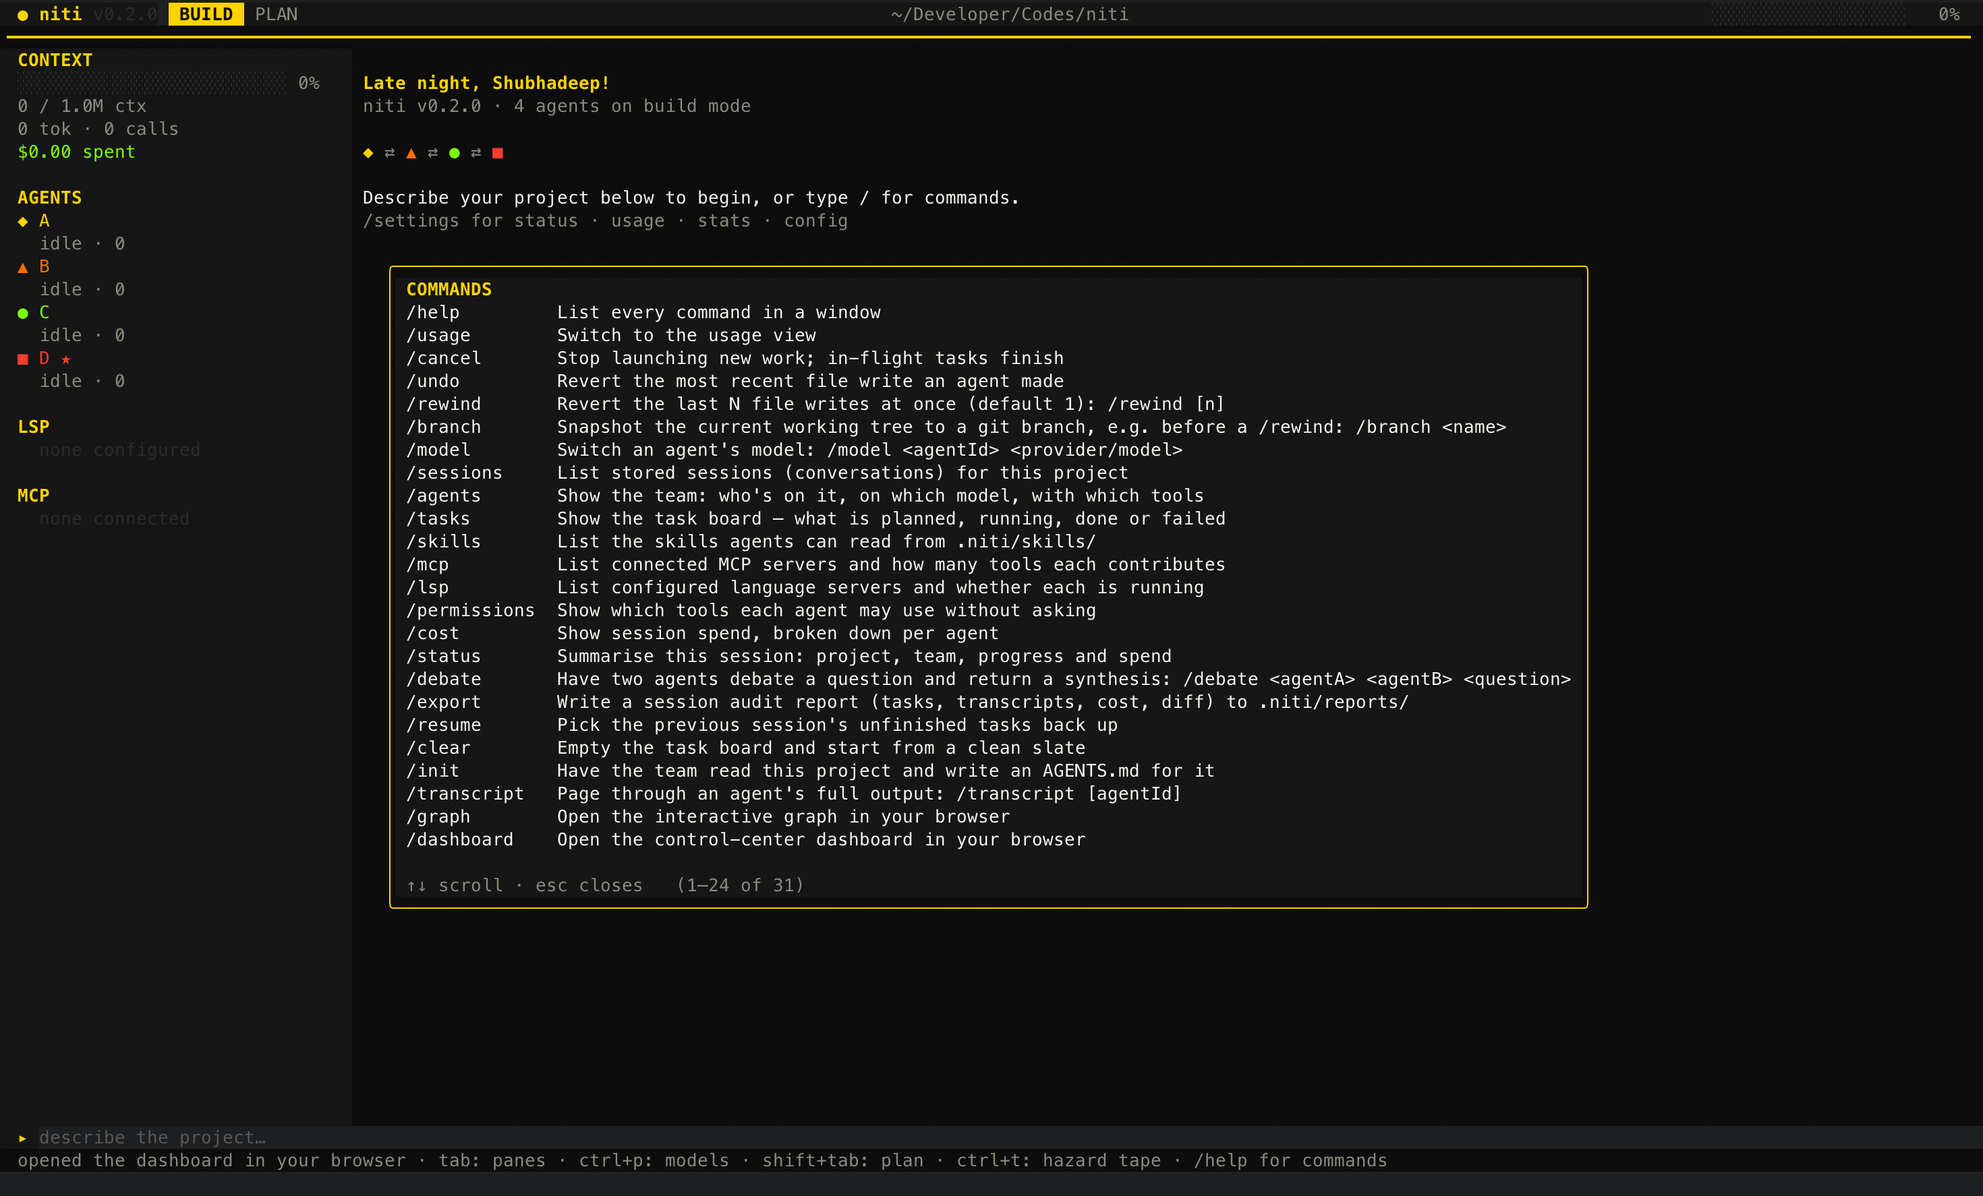
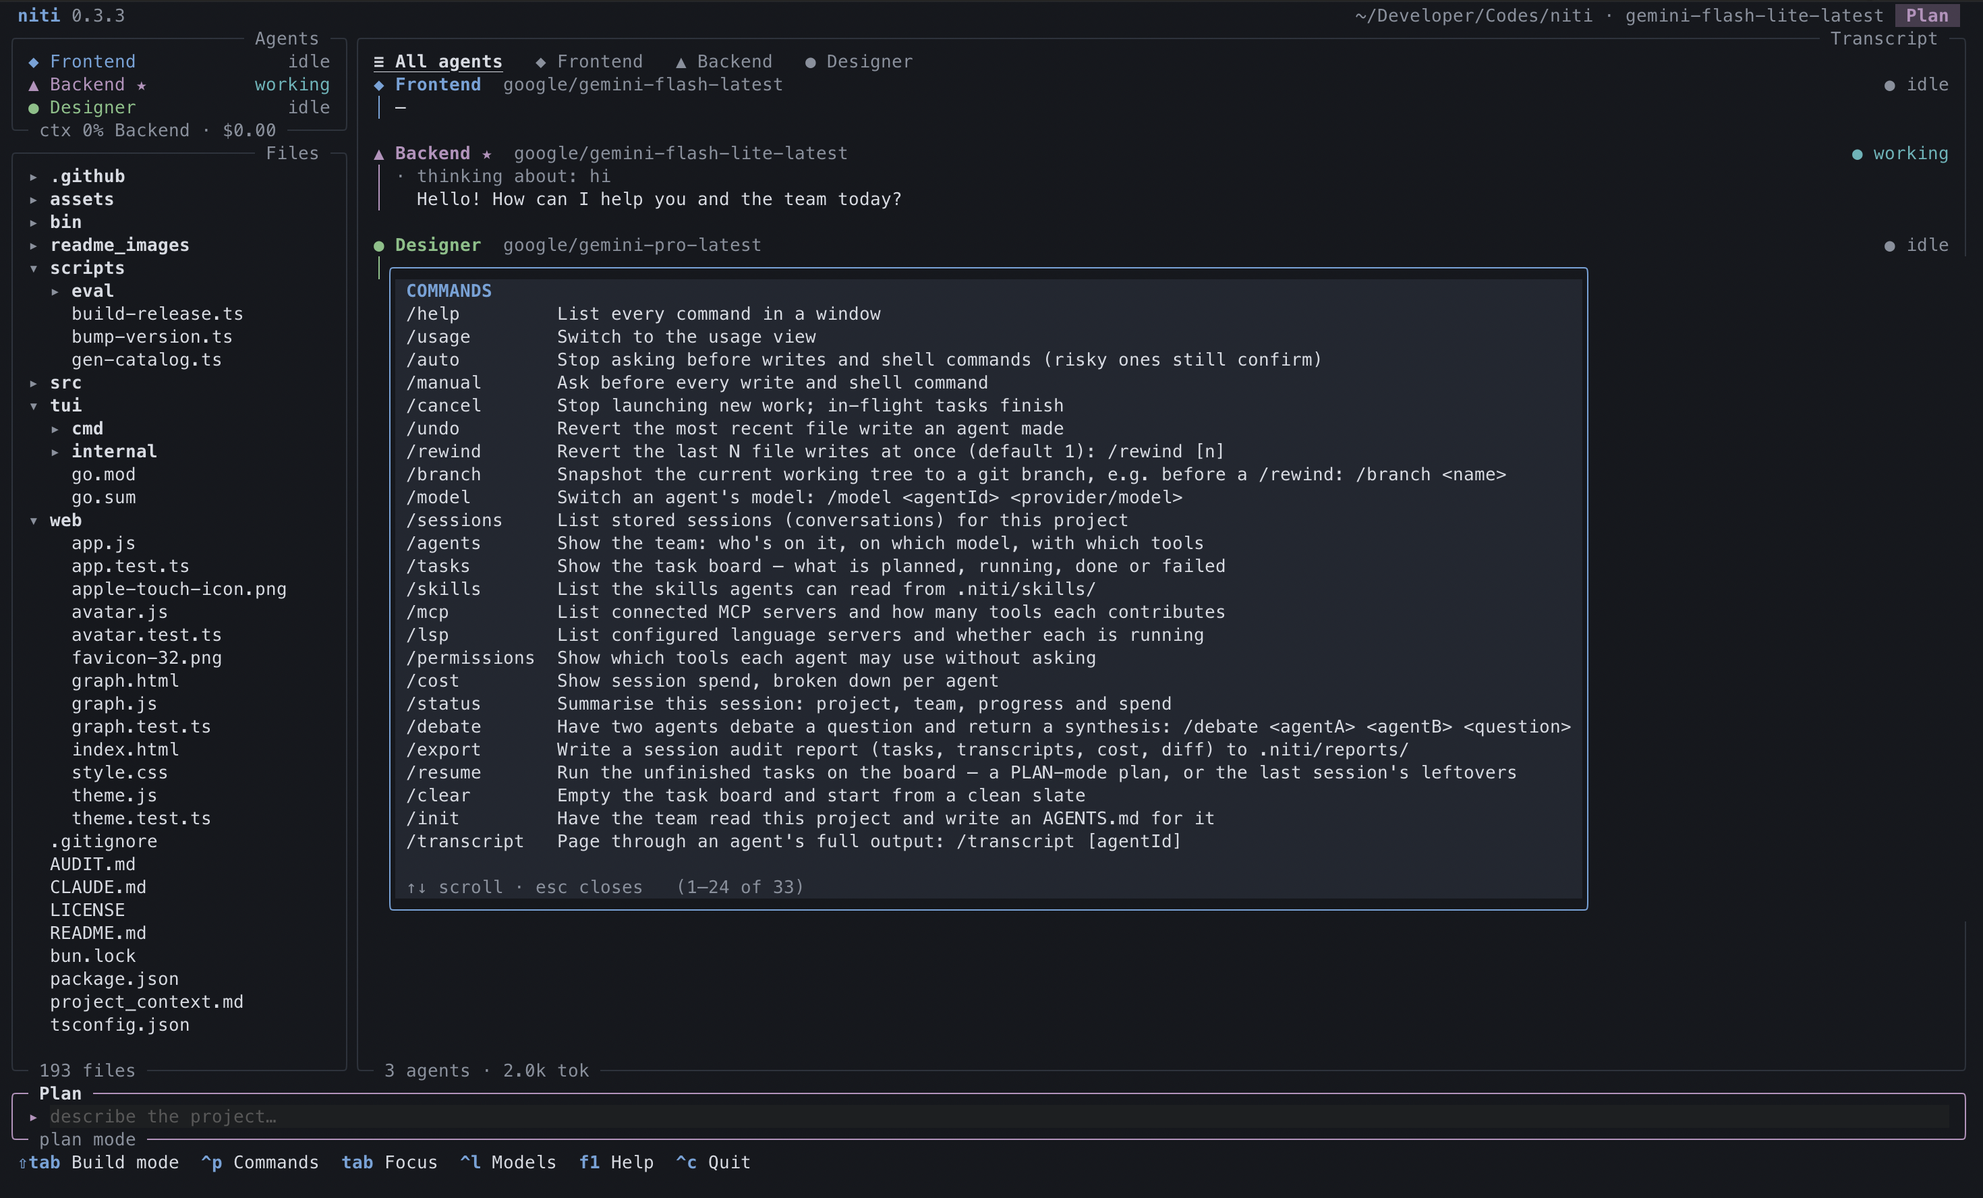
Redesign the README
A centered header with the logo and a large "niti" wordmark (SVG, with light
and dark variants), badges, and a section nav; the new screenshots of the
terminal, dashboard, graph and settings; a four-point "what you get" grid;
and tighter copy throughout that covers the live session, files panel,
themes and cost work. Screenshots renamed to lowercase, hyphenated names so
their links work on case-sensitive filesystems. .niti/history is ignored.

diff --git a/README.md b/README.md
@@ -1,160 +1,210 @@
 <div align="center">
 
-# <img src="assets/logo.png" alt="niti logo" width="90" valign="middle"> niti
-[![License: MIT](https://img.shields.io/badge/license-MIT-yellow.svg)](#license)
-[![Bun](https://img.shields.io/badge/core-Bun%20%2F%20TypeScript-f9f1e1)](#two-front-ends-one-core)
-[![Go](https://img.shields.io/badge/TUI-Go%20%2F%20Bubbletea-00add8)](#two-front-ends-one-core)
+<br>
 
-**A terminal CLI that runs multiple AI coding agents — from different LLM providers — concurrently on one project.**
+<img src="assets/logo.png" alt="" width="112">
 
-Assign models to custom roles, pick an **orchestrator** to plan the work into a task DAG, and watch the team build together. They talk to each other directly to stay aligned — live in your terminal, or in an optional web dashboard.
+<picture>
+  <source media="(prefers-color-scheme: dark)" srcset="assets/wordmark-dark.svg">
+  <source media="(prefers-color-scheme: light)" srcset="assets/wordmark-light.svg">
+  <img src="assets/wordmark-dark.svg" alt="niti" width="360">
+</picture>
 
+### A team of AI coding agents, on any mix of models, working on one project — live in your terminal.
 
 <br>
 
-<img src="readme_images/CLI.png" alt="niti's terminal UI — team of 4 agents, live context/token sidebar" width="100%">
+[![npm](https://img.shields.io/npm/v/@slenderbuilds/niti?style=flat-square&color=7aa2d6&label=npm)](https://www.npmjs.com/package/@slenderbuilds/niti)
+[![CI](https://img.shields.io/github/actions/workflow/status/slenderongithub/niti/ci.yml?branch=main&style=flat-square&label=CI&color=8fbf8a)](https://github.com/slenderongithub/niti/actions/workflows/ci.yml)
+[![Platforms](https://img.shields.io/badge/macOS%20·%20Linux%20·%20Windows-2e333d?style=flat-square)](#install)
+[![License: MIT](https://img.shields.io/badge/license-MIT-2e333d?style=flat-square)](#license)
+
+**[Install](#install)** &nbsp;·&nbsp; **[The terminal](#the-terminal)** &nbsp;·&nbsp; **[In the browser](#in-the-browser)** &nbsp;·&nbsp; **[Under the hood](#under-the-hood)** &nbsp;·&nbsp; **[Configure](#configure)**
+
+<br>
+
+<img src="readme_images/cli.png" alt="niti's terminal: a three-agent team, the project's files, and the live transcript" width="100%">
 
 </div>
 
----
+<br>
 
-## Quickstart
+## Install
 
 ```sh
-npm install -g @slenderbuilds/niti   # prebuilt binaries — no Bun, no Go, no build step
-niti                                 # pick your team, then start building
+npm install -g @slenderbuilds/niti
+niti
 ```
 
-> Published as **`@slenderbuilds/niti`** — the unscoped `niti` was rejected by npm's own
-> anti-squatting check (too similar to `jiti`/`vite`/others), and it suggested this scope. The
-> commands are still `niti` (TUI) and `niti-core` (headless engine); project state still lives
-> in `.niti/` — only the install name changed.
+Prebuilt for macOS, Linux and Windows — no Bun, no Go, no build step. On first launch niti asks
+how many teammates you want (1–6) and, for each, a **provider**, a **model**, a **name** and a
+one-line **job**. One of them leads: it turns your request into a plan, the others build it, and
+they talk to each other as they go.
 
-On first launch, `niti` opens a picker: how many teammates (1–6), then per teammate — provider,
-model, name, and a one-line job description. **29 providers / 152 models** from the
-[Models.dev](https://models.dev) catalog, plus local (Ollama/LM Studio) and **Custom** for any
-OpenAI-compatible endpoint. Keys live in `~/.config/niti/auth.json` (0600) and your OS keychain —
-never a server.
+Anthropic, OpenAI, Gemini, OpenRouter, DeepSeek, Groq, xAI, Mistral and many more come from the
+[Models.dev](https://models.dev) catalog, alongside local models (Ollama, LM Studio) and any
+OpenAI-compatible endpoint. Keys stay on your machine — `~/.config/niti/auth.json` (mode 0600) and
+your OS keychain.
 
-The footer always shows the keys that work where you are, and `f1` explains them (and every
-transcript glyph). The ones worth knowing on day one:
+<br>
 
-| Key | Does |
+## What you get
+
+<table>
+<tr>
+<td width="50%" valign="top">
+
+**A team, not a chatbot**<br>
+Mix models by strength — a careful model to plan, a fast one to build, a cheap one to review. The
+lead plans the work as a dependency graph; independent tasks run at the same time; teammates ask
+each other questions directly.
+
+</td>
+<td width="50%" valign="top">
+
+**Watch it work**<br>
+Every edit appears as a numbered, syntax-colored diff. Commands stream their output, then fold to a
+one-line result. Each agent's checklist stays pinned. Every run ends with a summary card and a
+suggested next step.
+
+</td>
+</tr>
+<tr>
+<td width="50%" valign="top">
+
+**Talk to it mid-run**<br>
+Say hello and it says hello — no invented work. Ask a question and it reads the code to answer.
+Anything you type while agents work steers them; <kbd>esc</kbd> stops them at once.
+
+</td>
+<td width="50%" valign="top">
+
+**Guardrails on by default**<br>
+Approvals before risky actions, a project-scoped sandbox, verification against your own build
+before a task counts as done, undo and rewind for every write, and a check that refuses "fixes"
+that only edited the tests.
+
+</td>
+</tr>
+</table>
+
+<br>
+
+## The terminal
+
+The footer always lists the keys that work where you are, and <kbd>f1</kbd> explains them — along
+with every glyph in the transcript. The ones worth knowing on day one:
+
+| Key | |
 |---|---|
-| `^p` | Command palette — every command, theme, view and agent, fuzzy-searchable |
-| `tab` | Move focus: prompt → transcript (scroll it with ↑↓ / pgup, `G` to follow) → agents |
-| `⇧tab` | Switch BUILD ↔ PLAN |
-| `^l` | Switch an agent's model |
-| `^t` | Theme picker with live preview (themes: graphite, ember, tide, dusk, moss, paper — or your own in `~/.config/niti/themes/*.json`) |
-| `f1` | Help for whatever has focus |
-| `ctrl+o` | Unfold full command output and whole diffs |
-| `esc` | While agents work: interrupt them. Anything you type mid-run steers the working agent |
-| `↑` / `^r` | Recall or search earlier prompts |
-| `@path` | Mention a project file in the prompt · `!cmd` runs a command right here |
+| <kbd>^p</kbd> | Command palette — every command, view, agent and theme, fuzzy-searchable |
+| <kbd>tab</kbd> | Move focus: prompt → transcript → agents → files |
+| <kbd>⇧tab</kbd> | Switch **Build** ↔ **Plan** (plan first, run when you like it) |
+| <kbd>esc</kbd> | While agents work: interrupt them. Anything you type mid-run steers the working agent |
+| <kbd>^o</kbd> | Unfold full command output and whole diffs |
+| <kbd>^l</kbd> | Switch an agent's model |
+| <kbd>^t</kbd> | Theme picker with live preview |
+| <kbd>↑</kbd> · <kbd>^r</kbd> | Recall or search earlier prompts |
+| `@path` · `!cmd` | Mention a project file · run a command right here |
 
-Type `/` for the full command list:
+The **Files** panel marks what the agents touched this session — **M** edited, **A** created,
+**·** read. Open any file read-only with this session's changes marked, or hand it to `$EDITOR`.
 
-<img src="readme_images/commands.png" alt="the / command palette, listing every slash command" width="100%">
+Type <kbd>/</kbd> for every command:
 
-## Watch it from the browser too
+<img src="readme_images/commands.png" alt="the command list over the running session" width="100%">
 
-`/dashboard` opens a live control center — agent avatars, message graph, task board, and per-agent
-usage, all pushed over SSE as the team works:
+**Themes** — six calm palettes (graphite, obsidian, ember, tide, dusk, moss), each with a designed
+light version that takes over when you turn on light mode. Or add your own in
+`~/.config/niti/themes/*.json`.
 
-<img src="readme_images/dashboardniti.png" alt="the web dashboard — live agent graph with task/message/usage panels" width="100%">
+<br>
 
-`/graph` opens an interactive force-graph — your project's file/import structure, or (toggle to
-**Models**) the live agent-to-agent conversation as it happens:
+## In the browser
 
-<table>
-<tr>
-<td width="50%"><img src="readme_images/graph1.png" alt="project mode: 137-file dependency graph"></td>
-<td width="50%"><img src="readme_images/graph2.png" alt="models mode: live pixel-art agent avatars, message-colored edges"></td>
-</tr>
-<tr>
-<td>Project mode — every file, colored by directory</td>
-<td>Models mode — your team, colored by status, talking in real time</td>
-</tr>
-</table>
+`/dashboard` opens a live control center: the team as a graph, the task board, agent-to-agent
+messages and usage, updated as the work happens. Click an agent to read its transcript, switch its
+model or message it mid-task. Approvals can be answered here too.
 
-Both pages retheme live with whatever theme (`ctrl+t` / `/theme`) the TUI has active.
+<img src="readme_images/dashboard.png" alt="the web dashboard: team graph, board and an agent's live transcript" width="100%">
 
-## Everything, at a glance
-
-`/settings` opens Status, Config, Usage, and Stats panes without leaving the session:
+`/graph` maps your project's imports — or, in **Models** mode, the team talking in real time.
 
 <table>
 <tr>
-<td width="33%"><img src="readme_images/status.png" alt="Status tab — version, team, mode, theme, models"></td>
-<td width="33%"><img src="readme_images/usage.png" alt="Usage tab — session cost, tokens, per-agent breakdown"></td>
-<td width="34%"><img src="readme_images/stats_models.png" alt="Stats tab — tokens per day, tokens by model"></td>
+<td width="33%"><img src="readme_images/graph-project.png" alt="project mode: every file, colored by directory"></td>
+<td width="33%"><img src="readme_images/graph-focus.png" alt="hovering a file highlights what it imports and what imports it"></td>
+<td width="34%"><img src="readme_images/graph-models.png" alt="models mode: each agent, colored by status"></td>
+</tr>
+<tr>
+<td align="center"><sub>Every file, colored by directory</sub></td>
+<td align="center"><sub>Hover to trace a file's imports</sub></td>
+<td align="center"><sub>Models mode: the team, live</sub></td>
 </tr>
 </table>
 
-## What's actually happening under the hood
+Both pages follow the theme you pick in the terminal.
 
-- **Orchestrator DAG** — the lead agent turns your goal into a validated task graph (dependencies +
-  hand-offs), not a flat queue; independent tasks run concurrently and the lead reviews at the end.
-- **Agent-to-agent messaging** — any teammate can `ask_agent`/`send_message` another mid-task (e.g.
-  frontend asking backend about an API shape), rate-capped per pair as the loop guard.
-- **Sandboxed tools** — `read_file` / `write_file` / `edit` / `shell` plus read-only navigation
-  (`grep` / `glob` / `list_dir`), gated per-agent by `allowedTools` and a wildcard permission
-  policy; every path is jailed to the project root. Reads are line-numbered and paged, so `grep`'s
-  `path:line:` output and a read share one coordinate system; independent reads in a turn run
-  together rather than one round-trip at a time.
-- **Project map + ranked context** — a generated outline of the repo (directory shape plus the
-  files most of the project imports, PageRank over the import graph) rides in the system prompt, so
-  an agent starts oriented instead of guessing. `repoMap: false` turns it off.
-- **Working checklist** — agents write a `todo` list for multi-step tasks, re-stated to the model
-  whenever it changes so the plan stays recent context instead of something to reconstruct from a
-  transcript. Scoped to one task; never carried into the next.
-- **Per-model steering** — each agent's prompt carries a short addendum for its model family
-  (`src/agent/steering.ts`). Mechanical only — verbosity, tool-call shape, when to stop. Anything
-  two agents must agree on stays in the shared guidance, since they message each other across
-  providers.
-- **Reasoning effort** — `reasoning: off|low|medium|high|auto` per agent maps to Gemini's
-  `thinkingBudget` and OpenAI's `reasoning_effort`. Unset sends nothing; note that Flash and
-  Flash-Lite do not think at all unless you set it.
-- **Verification before "done"** — an agent that changed files must pass the project's own checks
-  (a `typecheck`/`build` script, `go build`, `cargo check`, or whatever `verify:` names) before it
-  may report a task complete; failures go back to it as the real compiler output, twice at most.
-  A task whose checks never pass ends `unverified` rather than `done`, so the DAG never releases
-  dependents onto a tree that doesn't build.
-- **Check-gaming guard** — a green result that arrived only because the agent edited the tests,
-  the lint config or the check script itself is refused, and the agent is told to revert it and fix
-  the code. Judged by content, not by touch, so reverting as instructed isn't flagged; and only
-  ever after a failure, so writing a test in a task that never failed is ordinary work.
-- **Objective retry** — an `unverified` task is handed to a *different* model with the check output
-  attached, before any replan. Best-of-N where the selector is a compiler rather than a judge
-  model, and where the tasks that were right first time cost nothing extra.
-- **Approval gates** — agents pause for `[y] approve · [n] deny · [a] always` before risky actions,
-  answered from the TUI or the web dashboard; dangerous shell patterns always prompt.
-- **Persistence** — every turn checkpoints to SQLite (`.niti/niti.db`); `niti-core resume` picks up
-  unfinished tasks with history intact. `/undo` and `/rewind` revert file writes.
-- **MCP + LSP** — declare `mcpServers`/`lsp` in `agents.yaml`; both merge into the same tool loop,
-  gated the same way as everything else.
-- **Failover** — a 429/overload/context-limit requeues the task instead of failing it; another agent
-  picks it up.
+<br>
 
-See [`project_context.md`](./project_context.md) for the full architecture record, the verification
-history, and the deliberate ceilings (what's intentionally out of scope, and why).
+## Settings, at a glance
 
-## Configuring agents
+`/settings` opens Status, Config, Usage and Stats without leaving the session.
 
-`niti` rewrites only the `agents:` block on each team pick — everything else survives a relaunch.
-Edit `.niti/agents.yaml` directly for anything the picker doesn't cover:
+<table>
+<tr>
+<td width="50%"><img src="readme_images/config.png" alt="Config: mode, theme, permissions, thinking, light mode and more"></td>
+<td width="50%"><img src="readme_images/stats_models.png" alt="Stats: tokens per day and by model"></td>
+</tr>
+</table>
+
+<br>
+
+## Under the hood
+
+- **Talks before it plans** — a greeting gets a reply and a question gets an answer (read-only). Only
+  a request to change something becomes a plan, and a follow-up adjusts the unfinished plan instead
+  of replacing it. The lead remembers the last few exchanges.
+- **Plans as a graph** — the lead turns a request into tasks with dependencies and hand-offs;
+  independent tasks run concurrently, and the lead reviews the result at the end.
+- **Agents talk to each other** — any teammate can ask another mid-task (the frontend asking the
+  backend about an API shape), rate-capped per pair.
+- **Starts oriented** — a map of the repository (its layout and the files most of it depends on)
+  rides in every agent's prompt, so work begins with context instead of guesses.
+- **Verified before "done"** — an agent that changed files must pass your project's own checks
+  (a `typecheck` or `build` script, `go build`, `cargo check`, or whatever `verify:` names). A task
+  that never passes ends `unverified`, and is retried on a different model before any replan.
+- **Honest about cost** — prompt caching tuned per provider (Anthropic breakpoints, OpenAI cache
+  keys, Gemini implicit caching), reasoning effort per agent, real per-model context windows and
+  prices, and thinking tokens counted — see `/cost`.
+- **Guarded tools** — `read_file`, `write_file`, `edit`, `shell` and read-only search, gated per
+  agent and by a permission policy; paths are jailed to the project; dangerous commands always ask.
+- **Picks up where you left off** — every turn checkpoints to SQLite; `niti-core resume` continues
+  unfinished work, and `/undo` / `/rewind` revert writes.
+- **Extensible** — MCP servers and language servers join the same tool loop, under the same gates.
+
+The full architecture record, the verification history and what is deliberately out of scope live
+in [`project_context.md`](./project_context.md).
+
+<br>
+
+## Configure
+
+The team picker rewrites only the `agents:` block of `.niti/agents.yaml`; everything else is
+yours to edit.
 
 ```yaml
 agents:
   - id: architect
     provider: anthropic
-    model: claude-opus-4-8
+    model: claude-opus-5
     role: Architect
     lead: true
-    systemPrompt: You are a software architect. Decompose work into independent subtasks.
+    reasoning: high
+    systemPrompt: You are a software architect. Plan the work into independent tasks.
   - id: engineer
     provider: openai
-    model: gpt-4o
+    model: gpt-5
     role: Backend Engineer
     systemPrompt: You are a backend engineer. Implement the assigned task.
     allowedTools: [read_file, write_file, edit, shell, mcp]
@@ -168,42 +218,41 @@ mcpServers:
     command: code-review-graph
     args: [--stdio]
 
-theme: graphite      # ctrl+t / /theme / ^p opens a live preview, synced to any open dashboard/graph tab
-auto: false          # approve anything not explicitly denied
-maxAgents: 6
+theme: graphite
+auto: false   # true: approve anything not explicitly denied
 ```
 
-Full config reference — permissions resolution order, environment variables, LSP setup — lives in
-[`project_context.md`](./project_context.md).
+<br>
 
-## From source
+## Build from source
 
 Requires [Bun](https://bun.sh) ≥ 1.3 and [Go](https://go.dev) ≥ 1.22.
 
 ```sh
 bun install
-bun run build:tui                 # builds ./niti (the Go TUI)
+bun run build:all          # ./niti (terminal UI) and ./niti-core (engine)
 ./niti
 ```
 
-Headless / scripting, no interactive terminal needed:
+Headless, for scripts and CI:
 
 ```sh
 bun run src/cli.ts "Build a clothing website for gen-z."   # one-shot
-bun run src/cli.ts --web "..."                              # + live web dashboard
-bun run src/server/main.ts                                  # headless server, prints its own handshake URL
+bun run src/cli.ts --web "…"                               # with the live dashboard
 ```
 
-## Development
+Tests: `bun test` · `bunx tsc --noEmit` · `cd tui && go test ./...`
 
-```sh
-bun test                                                     # TypeScript unit + integration tests
-bunx tsc --noEmit                                             # typecheck
-cd tui && go build ./... && go vet ./... && go test ./...    # Go TUI: build, vet, unit tests
-```
+<br>
 
 ## License
 
-MIT.
+MIT
 
-<img src="assets/logo.png" alt="niti logo" width="40">
+<br>
+
+<div align="center">
+<img src="assets/logo.png" alt="niti" width="40">
+<br>
+<sub>Built for people who would rather watch their tools work than wonder what they're doing.</sub>
+</div>
